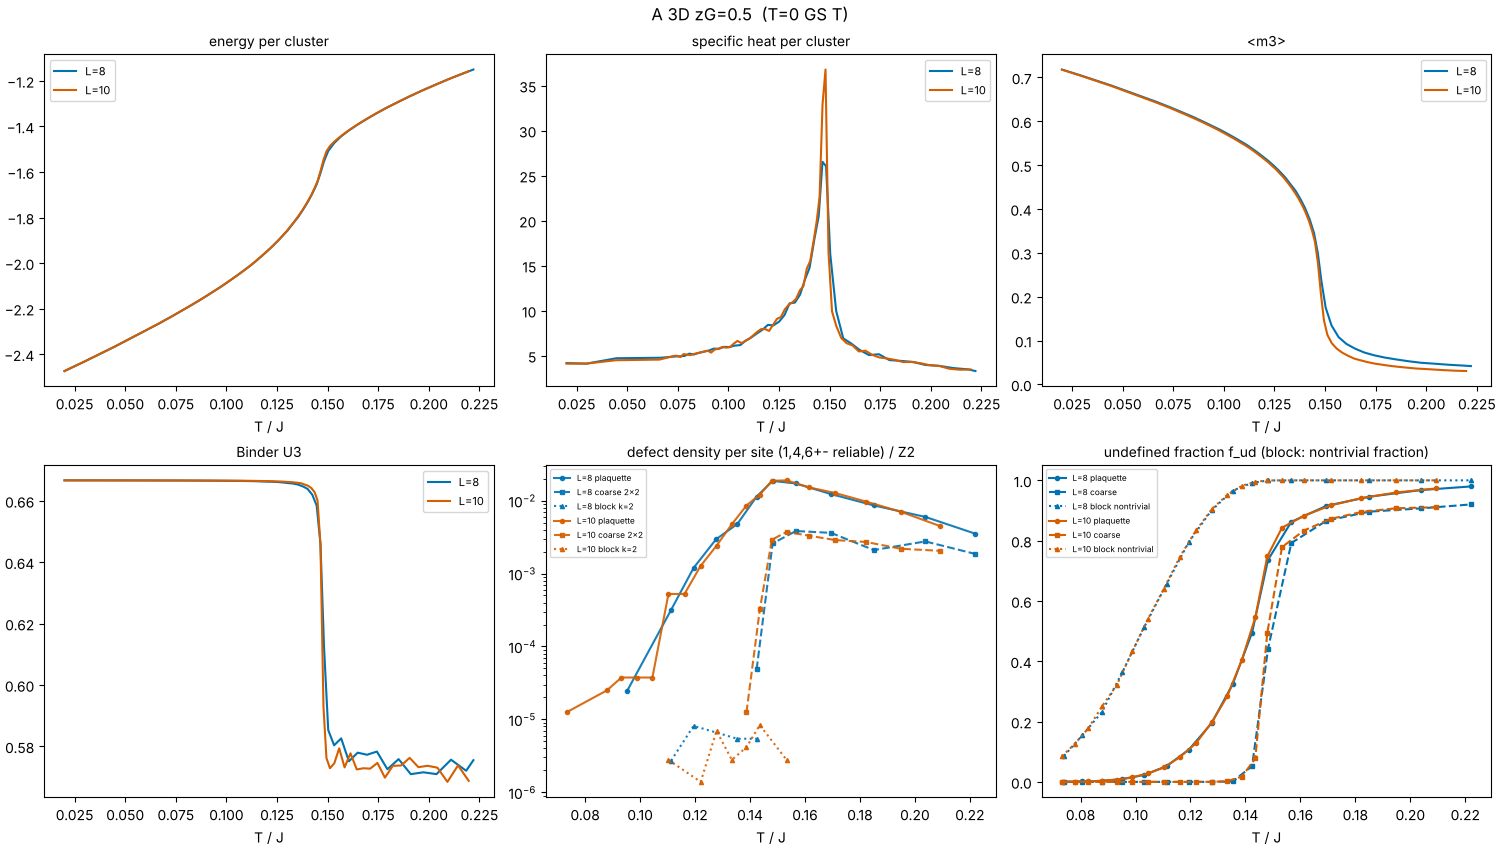
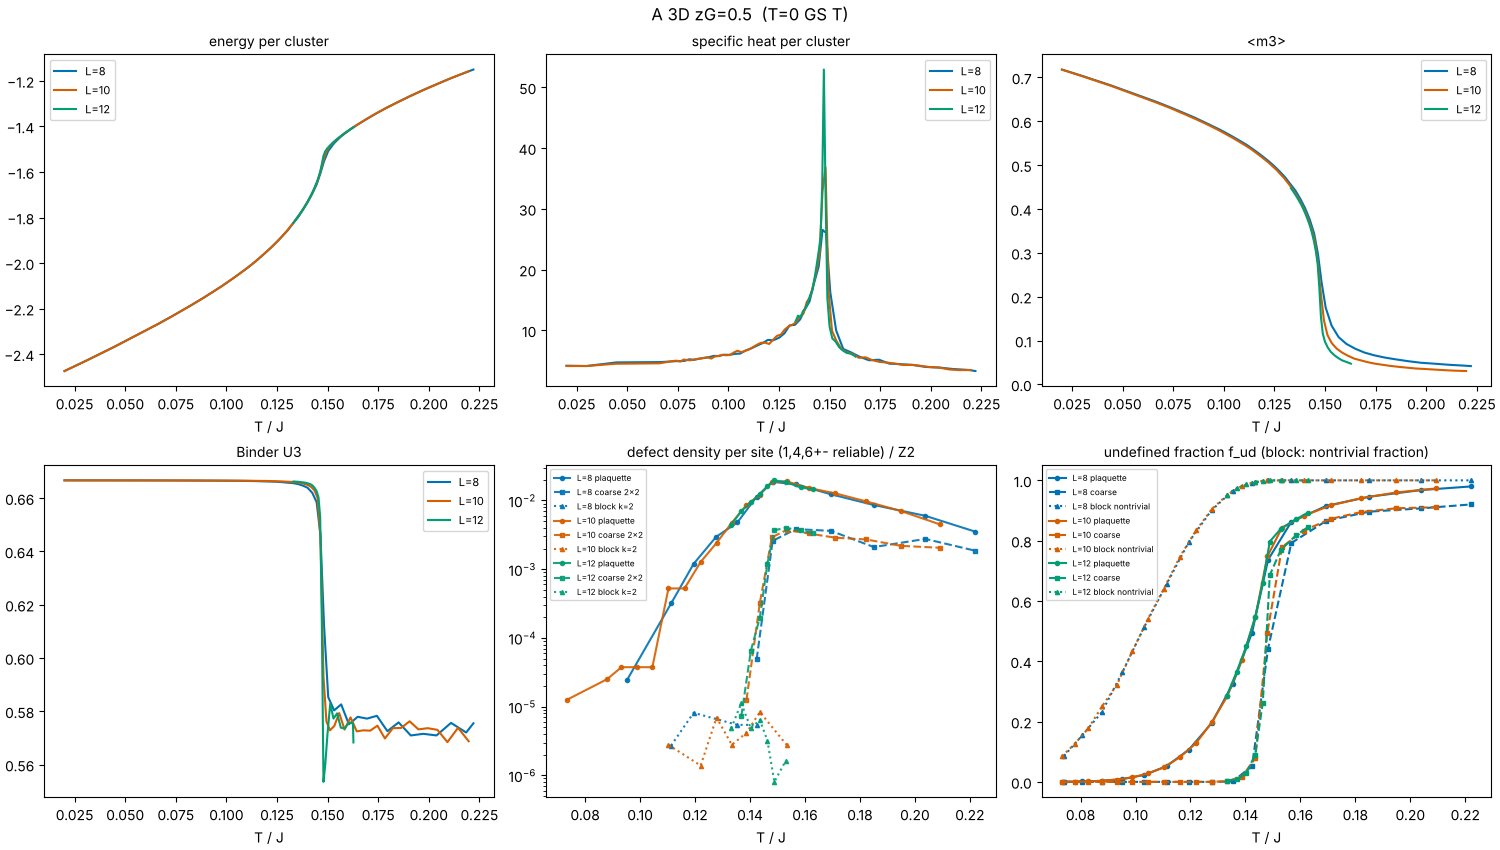
tier-3 analysis outputs: m3 decay, tables, figures
Claude-Session: https://claude.ai/code/session_01Esc9CtzvPxuMvhEnxWoDri

diff --git a/tools/m3_decay.py b/tools/m3_decay.py
@@ -1,0 +1,45 @@
+"""H2 (2D A zG=1.0): L dependence of the octupole order parameter m3 and the form of the G_3(r) decay
+(power law vs exponential, both with periodic images) at fixed T/T_c for L = 16, 24, 32.
+No per-sample errors are stored for G_3(r) (only sums), so fits are unweighted in log space; the RSS ratio is
+descriptive, not a statistical test.  Usage: python tools/m3_decay.py"""
+import numpy as np
+from scipy.optimize import least_squares
+
+Ls = (16, 24, 32)
+D = {L: np.load(f"data/stage1/A_2d_L{L}_zG1_pt.npz", allow_pickle=False) for L in Ls}
+Tc = {L: D[L]["T"][int(np.argmax(D[L]["th_c"]))] for L in Ls}
+
+def at(L, key, tt, col=None):
+    T = D[L]["T"]; y = D[L][key] if col is None else D[L][key][:, col]
+    return float(np.interp(tt * Tc[L], T, y))
+
+def fit(L, G, kind):
+    r = np.arange(1, L // 2 + 1)[: len(G) - 1] if False else np.arange(1, len(G))
+    g = G[1:]
+    ok = g > 0
+    r, g = r[ok], g[ok]
+    def model(p):
+        A, s = np.exp(p[0]), np.exp(p[1])
+        if kind == "pow":
+            return A * (r ** -s + (L - r) ** -s)
+        return A * (np.exp(-r / s) + np.exp(-(L - r) / s))
+    best = None
+    for s0 in ((0.1, 0.5, 1.0) if kind == "pow" else (1.0, 3.0, 10.0)):
+        res = least_squares(lambda p: np.log(model(p)) - np.log(g), [0.0, np.log(s0)])
+        if best is None or res.cost < best.cost:
+            best = res
+    return float(np.exp(best.x[1])), float(2 * best.cost / len(r)), len(r)
+
+print("| T/T_c | m3 L=16 | m3 L=24 | m3 L=32 | local exponent -d ln m3 / d ln L (24->32) |")
+print("|---|---|---|---|---|")
+for t in (0.6, 0.7, 0.8, 0.9, 1.0, 1.1, 1.3):
+    m = [at(L, "th_m", t, 2) for L in Ls]
+    print(f"| {t} | {m[0]:.4f} | {m[1]:.4f} | {m[2]:.4f} | {-np.log(m[2]/m[1])/np.log(32/24):.3f} |")
+print("\n| T/T_c | L | exponent eta (power law) | MSE log power | xi (exponential) | MSE log exp | better |")
+print("|---|---|---|---|---|---|---|")
+for t in (0.7, 0.8, 0.9, 1.0, 1.1):
+    for L in Ls:
+        T = D[L]["T"]; i = int(np.argmin(abs(T - t * Tc[L])))
+        G = D[L]["dm_corr"][i, 2]
+        eta, mp, n = fit(L, G, "pow"); xi, me, _ = fit(L, G, "exp")
+        print(f"| {t} (T={T[i]:.4f}) | {L} | {eta:.3f} | {mp:.2e} | {xi:.2f} | {me:.2e} | {'power' if mp < me else 'exp'} |")

diff --git a/docs/tier3_tables.md b/docs/tier3_tables.md
@@ -1,0 +1,45 @@
+## PT points: size dependence
+| point | L | N | T_peak | c_peak | Binder min(m1..) | swap min | trips | rho_coarse(T_c) | f_ud,coarse(T_c) | f_ud,plaq(T_c) | R_b |
+|---|---|---|---|---|---|---|---|---|---|---|---|
+| A 2D 0.5 | 16 | 256 | 0.1286 | 16.9 | 0.506 | 0.28 | 26 | 1.17e-03 | 0.13 | 0.26 | nan |
+| A 2D 0.5 | 24 | 576 | 0.1269 | 16.2 | 0.509 | 0.26 | 27 | 9.98e-04 | 0.14 | 0.26 | 0.26 |
+| A 2D 1.0 | 16 | 256 | 0.2204 | 21.5 | 0.512 | 0.28 | 28 | 2.15e-03 | 0.24 | 0.59 | nan |
+| A 2D 1.0 | 24 | 576 | 0.2167 | 25.0 | 0.511 | 0.23 | 29 | 1.65e-03 | 0.23 | 0.55 | 0.34 |
+| A 2D 1.0 | 32 | 1024 | 0.2142 | 23.1 | 0.514 | 0.26 | 29 | 1.06e-03 | 0.13 | 0.46 | 0.20 |
+| A 2D 1.5 | 16 | 256 | 0.2901 | 22.2 | 0.518 | 0.28 | 19 | 0.00e+00 | 0.17 | 0.73 | nan |
+| A 2D 1.5 | 24 | 576 | 0.2888 | 23.4 | 0.518 | 0.27 | 28 | 0.00e+00 | 0.23 | 0.77 | 0.30 |
+| A 3D 0.5 | 8 | 512 | 0.1465 | 26.5 | 0.503 | 0.28 | 15 | 2.59e-03 | 0.44 | 0.74 | nan |
+| A 3D 0.5 | 10 | 1000 | 0.1479 | 36.8 | 0.507 | 0.19 | 6 | 2.91e-03 | 0.49 | 0.75 | nan |
+| A 3D 0.5 | 12 | 1728 | 0.1471 | 52.9 | 0.525 | 0.27 | 16 | 1.20e-03 | 0.26 | 0.66 | 0.01 |
+| A 3D 1.0 | 8 | 512 | 0.2478 | 32.6 | 0.510 | 0.28 | 23 | 1.22e-03 | 0.48 | 0.91 | nan |
+| A 3D 1.0 | 10 | 1000 | 0.2490 | 35.4 | 0.509 | 0.20 | 5 | 1.27e-03 | 0.42 | 0.90 | nan |
+| A 3D 1.0 | 12 | 1728 | 0.2485 | 40.0 | 0.530 | 0.29 | 27 | 1.24e-03 | 0.43 | 0.90 | 0.04 |
+| A 3D 1.5 | 8 | 512 | 0.3306 | 23.7 | 0.518 | 0.27 | 16 | 2.93e-04 | 0.14 | 0.93 | nan |
+| A 3D 1.5 | 10 | 1000 | 0.3366 | 26.5 | 0.516 | 0.25 | 6 | 6.50e-04 | 0.28 | 0.95 | nan |
+| A 3D 1.5 | 12 | 1728 | 0.3389 | 29.1 | 0.524 | 0.32 | 29 | 9.84e-04 | 0.30 | 0.96 | 0.00 |
+| B 2D 0.25 | 16 | 256 | 0.1416 | 22.3 | 0.496 | 0.28 | 21 | 2.44e-03 | 0.37 | 0.45 | nan |
+| B 2D 0.25 | 24 | 576 | 0.1404 | 22.5 | 0.501 | 0.24 | 25 | 2.32e-03 | 0.33 | 0.42 | 0.28 |
+| B 3D 0.25 | 8 | 512 | 0.1576 | 53.3 | 0.492 | 0.07 | 7 | 1.98e-03 | 0.39 | 0.73 | nan |
+| B 3D 0.25 | 10 | 1000 | 0.1564 | 51.2 | 0.491 | 0.04 | 5 | 3.23e-03 | 0.62 | 0.80 | nan |
+
+## c_peak ~ N^a (a=1: first order; 2D/3D continuous: alpha/(d nu))
+- A 2D 0.5: L=[16, 24]: a = -0.05
+- A 2D 1.0: L=[16, 24, 32]: a = 0.06 ± 0.09
+- A 2D 1.5: L=[16, 24]: a = 0.06
+- A 3D 0.5: L=[8, 10, 12]: a = 0.56 ± 0.05
+- A 3D 1.0: L=[8, 10, 12]: a = 0.17 ± 0.03
+- A 3D 1.5: L=[8, 10, 12]: a = 0.17 ± 0.00
+- B 2D 0.25: L=[16, 24]: a = 0.01
+- B 3D 0.25: L=[8, 10]: a = -0.06
+
+## First-order points: heat vs cool, nematic m2 half-point and energy jump
+| point | L | T_up | T_down | dT | c_peak(heat) | max de (heat) |
+|---|---|---|---|---|---|---|
+| B 2D zH4=1.0 | 16 | 0.3575 | 0.3471 | +0.0104 | 40 | 1.80 |
+| B 2D zH4=1.0 | 24 | 0.3576 | 0.3437 | +0.0138 | 46 | 1.79 |
+| B 2D zH4=2.0 | 16 | 0.8848 | 0.8888 | -0.0040 | 275 | 1.77 |
+| B 2D zH4=2.0 | 24 | 0.8825 | 0.8843 | -0.0017 | 491 | 1.60 |
+| B 3D zH4=1.0 | 8 | 0.3700 | 0.3666 | +0.0034 | 1279 | 1.41 |
+| B 3D zH4=1.0 | 10 | 0.3697 | 0.4008 | -0.0311 | 55 | 1.69 |
+| B 3D zH4=2.0 | 8 | 0.8962 | 0.8788 | +0.0174 | 51 | 3.44 |
+| B 3D zH4=2.0 | 10 | 0.9005 | 0.8692 | +0.0313 | 67 | 3.17 |

diff --git a/docs/m3_decay_tier3.md b/docs/m3_decay_tier3.md
@@ -1,0 +1,27 @@
+| T/T_c | m3 L=16 | m3 L=24 | m3 L=32 | local exponent -d ln m3 / d ln L (24->32) |
+|---|---|---|---|---|
+| 0.6 | 0.5971 | 0.5884 | 0.5826 | 0.034 |
+| 0.7 | 0.5634 | 0.5534 | 0.5470 | 0.040 |
+| 0.8 | 0.5225 | 0.5116 | 0.5052 | 0.044 |
+| 0.9 | 0.4626 | 0.4529 | 0.4462 | 0.052 |
+| 1.0 | 0.3044 | 0.2717 | 0.2686 | 0.040 |
+| 1.1 | 0.1398 | 0.1026 | 0.0820 | 0.782 |
+| 1.3 | 0.0810 | 0.0561 | 0.0432 | 0.912 |
+
+| T/T_c | L | exponent eta (power law) | MSE log power | xi (exponential) | MSE log exp | better |
+|---|---|---|---|---|---|---|
+| 0.7 (T=0.1558) | 16 | 0.232 | 2.73e-06 | 10.67 | 2.11e-04 | power |
+| 0.7 (T=0.1511) | 24 | 0.227 | 1.61e-05 | 15.41 | 3.40e-04 | power |
+| 0.7 (T=0.1487) | 32 | 0.208 | 3.94e-06 | 21.19 | 4.96e-04 | power |
+| 0.8 (T=0.1790) | 16 | 0.300 | 1.31e-05 | 9.00 | 3.78e-04 | power |
+| 0.8 (T=0.1741) | 24 | 0.273 | 3.41e-06 | 13.72 | 7.22e-04 | power |
+| 0.8 (T=0.1715) | 32 | 0.258 | 5.73e-06 | 18.43 | 8.95e-04 | power |
+| 0.9 (T=0.1959) | 16 | 0.361 | 7.39e-06 | 7.93 | 7.43e-04 | power |
+| 0.9 (T=0.1967) | 24 | 0.365 | 2.40e-05 | 11.20 | 1.49e-03 | power |
+| 0.9 (T=0.1915) | 32 | 0.337 | 4.79e-05 | 15.31 | 1.59e-03 | power |
+| 1.0 (T=0.2204) | 16 | 0.794 | 1.69e-03 | 4.25 | 3.34e-03 | power |
+| 1.0 (T=0.2167) | 24 | 0.809 | 4.28e-03 | 5.85 | 5.79e-03 | power |
+| 1.0 (T=0.2142) | 32 | 0.723 | 3.18e-03 | 8.31 | 7.67e-03 | power |
+| 1.1 (T=0.2422) | 16 | 1.847 | 6.22e-02 | 1.90 | 7.28e-03 | exp |
+| 1.1 (T=0.2365) | 24 | 1.918 | 9.94e-02 | 2.53 | 2.35e-02 | exp |
+| 1.1 (T=0.2341) | 32 | 2.251 | 2.48e-01 | 2.79 | 2.09e-01 | exp |

diff --git a/docs/tc_over_zg_tier3.md b/docs/tc_over_zg_tier3.md
@@ -6,6 +6,7 @@
 | 2D | 24 | 0.5 | 0.1269 | 0.2537 | 0.707 | 0.5083 |
 | 2D | 24 | 1 | 0.2167 | 0.2167 | 0.724 | 0.4131 |
 | 2D | 24 | 1.5 | 0.2888 | 0.1925 | 0.731 | 0.3605 |
+| 2D | 32 | 1 | 0.2142 | 0.2142 | 0.723 | 0.4095 |
 | 3D | 8 | 0.5 | 0.1465 | 0.2929 | 0.718 | 0.5684 |
 | 3D | 8 | 1 | 0.2478 | 0.2478 | 0.730 | 0.4651 |
 | 3D | 8 | 1.5 | 0.3306 | 0.2204 | 0.734 | 0.4086 |
